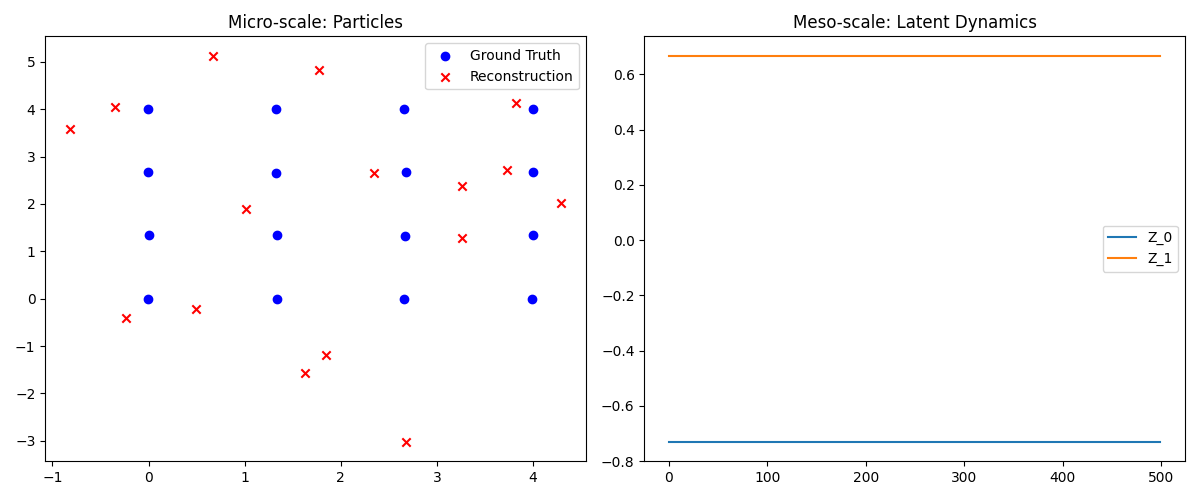
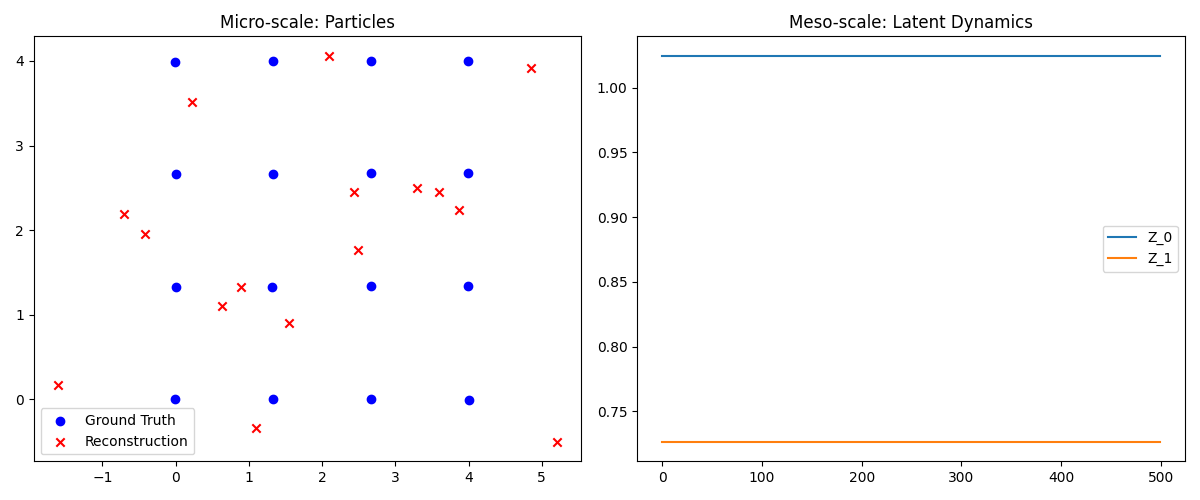
updated

diff --git a/model.py b/model.py
@@ -1,6 +1,7 @@
 import torch
 import torch.nn as nn
-from torch_geometric.nn import MessagePassing, global_mean_pool
+from torch_geometric.nn import MessagePassing
+from torch_geometric.utils import scatter
 from torchdiffeq import odeint
 
 class GNNLayer(MessagePassing):
@@ -19,6 +20,32 @@ class GNNLayer(MessagePassing):
         tmp = torch.cat([x_i, x_j], dim=1)
         return self.mlp(tmp)
 
+class HierarchicalPooling(nn.Module):
+    """
+    Learned soft-assignment pooling to preserve spatial locality 
+    by aggregating nodes into a fixed number of super-nodes.
+    """
+    def __init__(self, in_channels, n_super_nodes):
+        super(HierarchicalPooling, self).__init__()
+        self.n_super_nodes = n_super_nodes
+        self.assign_mlp = nn.Sequential(
+            nn.Linear(in_channels, in_channels),
+            nn.ReLU(),
+            nn.Linear(in_channels, n_super_nodes)
+        )
+
+    def forward(self, x, batch):
+        # x: [N, in_channels], batch: [N]
+        # Compute soft-assignment matrix s: [N, n_super_nodes]
+        s = torch.softmax(self.assign_mlp(x), dim=-1)
+        
+        # Weighted aggregation: [N, 1, in_channels] * [N, n_super_nodes, 1]
+        x_expanded = x.unsqueeze(1) * s.unsqueeze(2) 
+        
+        # Scatter to batch: [Batch_Size, n_super_nodes, in_channels]
+        out = scatter(x_expanded, batch, dim=0, reduce='sum')
+        return out
+
 class GNNEncoder(nn.Module):
     def __init__(self, node_features, hidden_dim, latent_dim, n_super_nodes):
         super(GNNEncoder, self).__init__()
@@ -27,26 +54,23 @@ class GNNEncoder(nn.Module):
         self.n_super_nodes = n_super_nodes
         self.latent_dim = latent_dim
         
-        # Mapping to K super-nodes
-        self.super_node_map = nn.Sequential(
+        # Spatially-aware pooling instead of global_mean_pool
+        self.pooling = HierarchicalPooling(hidden_dim, n_super_nodes)
+        
+        self.output_layer = nn.Sequential(
             nn.Linear(hidden_dim, hidden_dim),
             nn.ReLU(),
-            nn.Linear(hidden_dim, latent_dim * n_super_nodes)
+            nn.Linear(hidden_dim, latent_dim)
         )
 
     def forward(self, x, edge_index, batch):
         x = torch.relu(self.gnn1(x, edge_index))
         x = torch.relu(self.gnn2(x, edge_index))
         
-        # Instead of global pooling to one vector, we want to cluster/pool into K nodes
-        # For simplicity, we can use a learned projection or global pooling + splitting
-        # A more robust way is top-k pooling or assigned clusters, 
-        # but here we'll use a fixed number of latent states derived from global info for now,
-        # or average across partitions if we had them.
-        # Let's use global pooling and then expand to K super-nodes for the "bottleneck".
-        pooled = global_mean_pool(x, batch) # [batch_size, hidden_dim]
-        latent = self.super_node_map(pooled) # [batch_size, latent_dim * n_super_nodes]
-        return latent.view(-1, self.n_super_nodes, self.latent_dim)
+        # Pool to K super-nodes preserving spatial features
+        pooled = self.pooling(x, batch) # [batch_size, n_super_nodes, hidden_dim]
+        latent = self.output_layer(pooled) # [batch_size, n_super_nodes, latent_dim]
+        return latent
 
 class LatentODEFunc(nn.Module):
     def __init__(self, latent_dim, n_super_nodes, hidden_dim=64):
